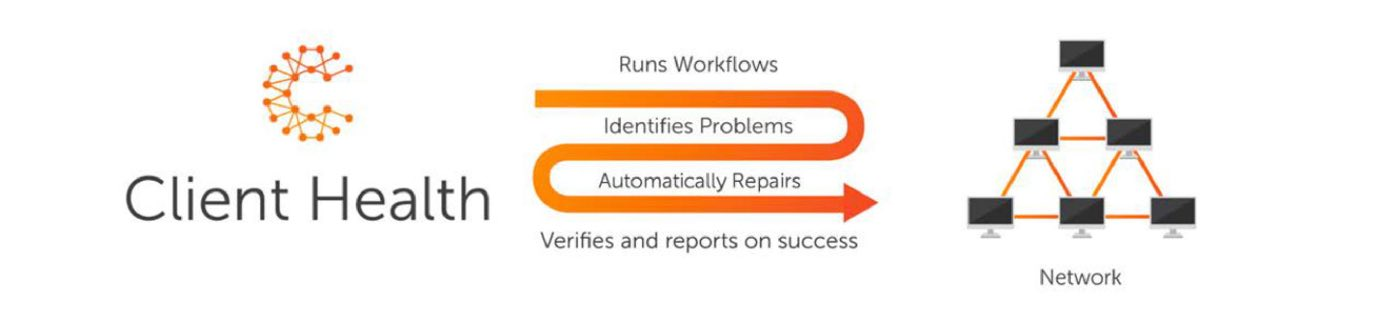
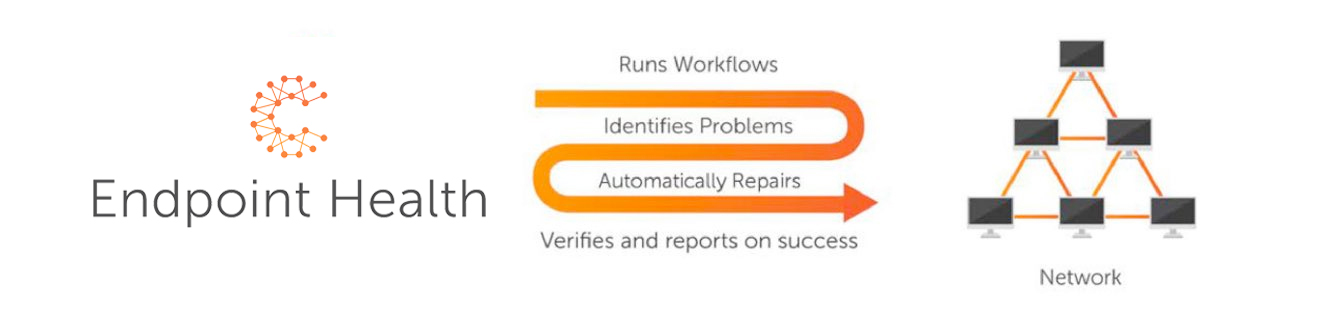
updating case study graphic and text

diff --git a/resources/case-study/endpoint-health-fortune-500.html b/resources/case-study/endpoint-health-fortune-500.html
@@ -11,6 +11,7 @@ js:
     <div class="content hero-content">
         <div class="inner">
             <h1 class="white">Endpoint Health Case Study: Fortune 500 Retailer</h1>
+            <a class="cta cta--alt diffuse-shadow" href="https://www2.adaptiva.com/resources/download/case-study/endpoint-health-fortune-500" target="_blank"><div class="cta-inner">Download PDF</div></a>
         </div>
     </div>
 </section>
@@ -69,7 +70,7 @@ js:
                 <div class="image-max">
                     <img src="/assets/img/case-studies/cs-smart-scaling-p2p-technology.jpg" alt="Adaptiva Smart Scaling Peer-to-peer Technology">
                 </div>
-                <p>Client Health comes prepackaged with 75 automated checks that identify and automatically fix issues across 16 endpoint management categories including:</p>       
+                <p>Endpoint Health comes prepackaged with 75 automated checks that identify and automatically fix issues across 16 endpoint management categories including:</p>       
                 <ul>
                     <li><strong>Security health checks</strong> to detect violations to security policies and automatically enforce best practices.</li>
                     <li><strong>Operating system health checks</strong> to keep operating systems, like Windows 10, current and correctly configured with checks for managing remote desktop settings, analyzing licensing compliance and verifying local group security.</li>
@@ -188,11 +189,11 @@ js:
                             <td width="25%" class="text-right val-row">180,950</td>
                         </tr>
                         <tr>
-                            <td width="75%" class="text-left">Success Rate of Client Health Remediations</td>
+                            <td width="75%" class="text-left">Success Rate of Endpoint Health Remediations</td>
                             <td width="25%" class="text-right val-row">89%</td>
                         </tr>
                         <tr>
-                            <td width="75%" class="text-left">Count of Systems Client Health Can Remediate</td>
+                            <td width="75%" class="text-left">Count of Systems Endpoint Health Can Remediate</td>
                             <td width="25%" class="text-right val-row">161,046</td>
                         </tr>
                         <tr>
@@ -204,7 +205,7 @@ js:
                             <td width="25%" class="text-right val-row">$25.00/hour</td>
                         </tr>
                         <tr>
-                            <td width="75%" class="text-left">Total Instant Cost savings by Using Client Health</td>
+                            <td width="75%" class="text-left">Total Instant Cost savings by Using Endpoint Health</td>
                             <td width="25%" class="text-right val-row">$1,006,538</td>
                         </tr>
                     </tbody>
@@ -212,7 +213,7 @@ js:
                 <p>The retailer would see an immediate return on investment even at these conservative estimates. In a full implementation running across all health check categories, the savings are likely several times that, when factoring in that the retailer:</p>
                 <ul>
                     <li>Only applied a fraction of the pre-built health checks</li>
-                    <li>Did not include any custom checks (for health, security, compliance, etc.), which are Client Health’s greatest strength</li>
+                    <li>Did not include any custom checks (for health, security, compliance, etc.), which are Endpoint Health’s greatest strength</li>
                     <li>Only factored in the immediate savings of running checks and remediations on a one-time basis (checks will be run regularly in production)</li>
                     <li>The savings model did not include productivity gains from improved uptime, resulting from preemptively finding and fixing problems</li>
                     <li>The savings model did not account for the possible prevention of ransomware attacks, virus outbreaks, or database security breaches</li>
